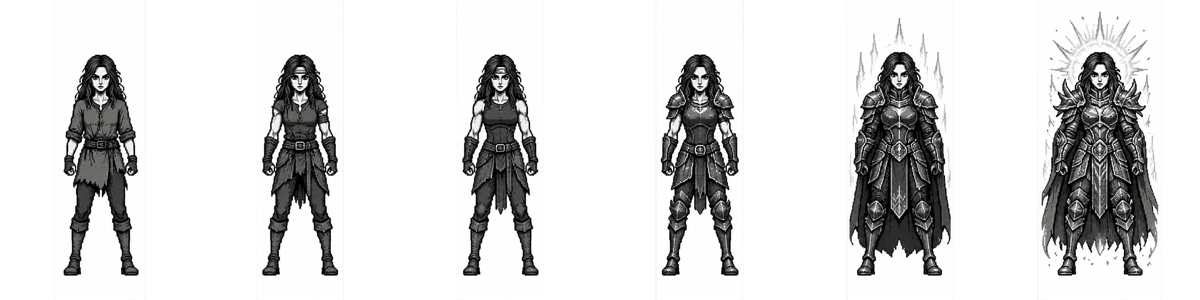
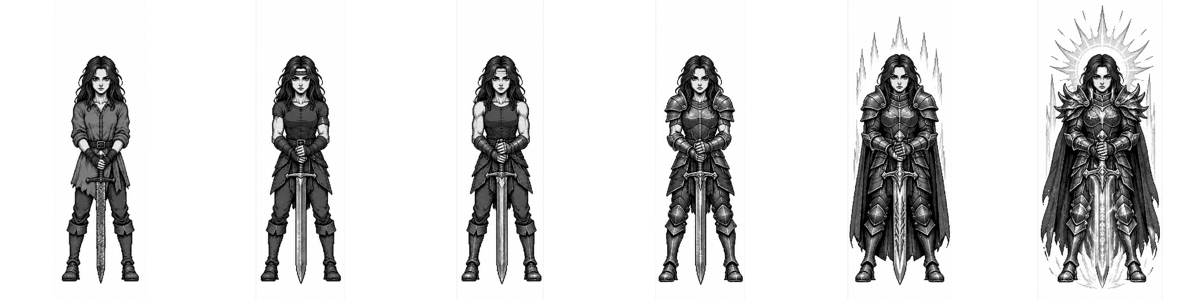
Charakter mit Schwert
Claude-Session: https://claude.ai/code/session_01QfNmy13DcjNjkGppKWZfPc

diff --git a/sw.js b/sw.js
@@ -1,4 +1,4 @@
-const C="habits-v3",F=["./","index.html","manifest.json","icon.svg","icon-192.png","icon-512.png","icon-180.png","sprites.png","char.png"];
+const C="habits-v4",F=["./","index.html","manifest.json","icon.svg","icon-192.png","icon-512.png","icon-180.png","sprites.png","char.png"];
 self.addEventListener("install",e=>{e.waitUntil(caches.open(C).then(c=>Promise.all(F.map(f=>c.add(f).catch(()=>{})))));self.skipWaiting()});
 self.addEventListener("activate",e=>e.waitUntil(caches.keys().then(k=>Promise.all(k.filter(x=>x!==C).map(x=>caches.delete(x))))));
 self.addEventListener("fetch",e=>e.respondWith(fetch(e.request).then(r=>{const c=r.clone();caches.open(C).then(x=>x.put(e.request,c));return r}).catch(()=>caches.match(e.request))));
